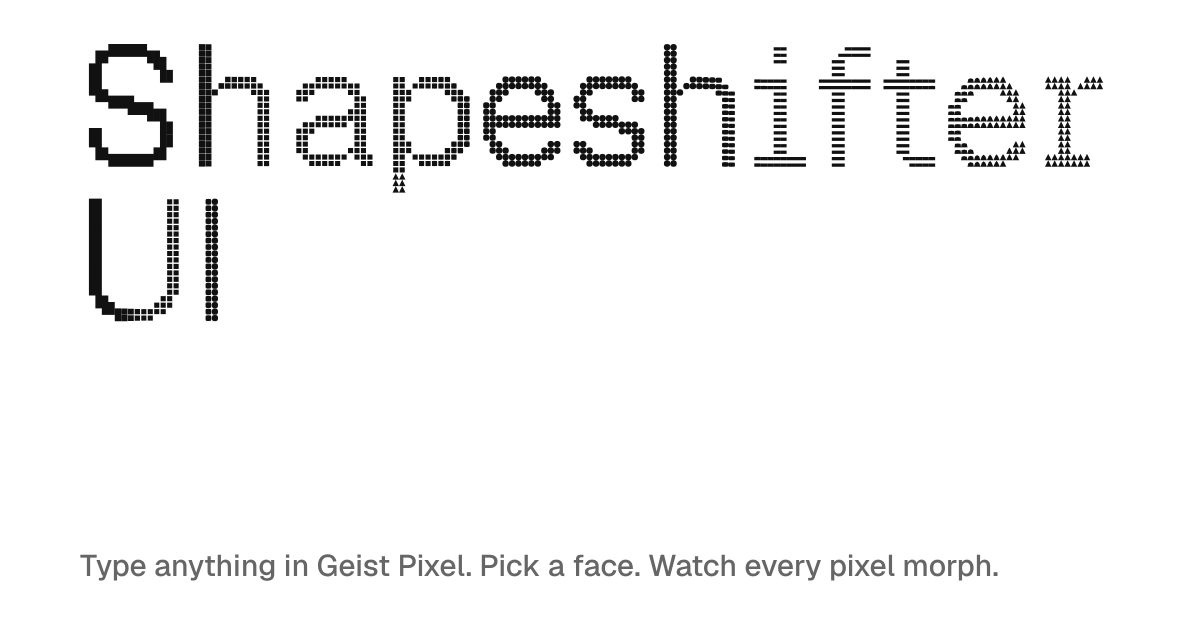
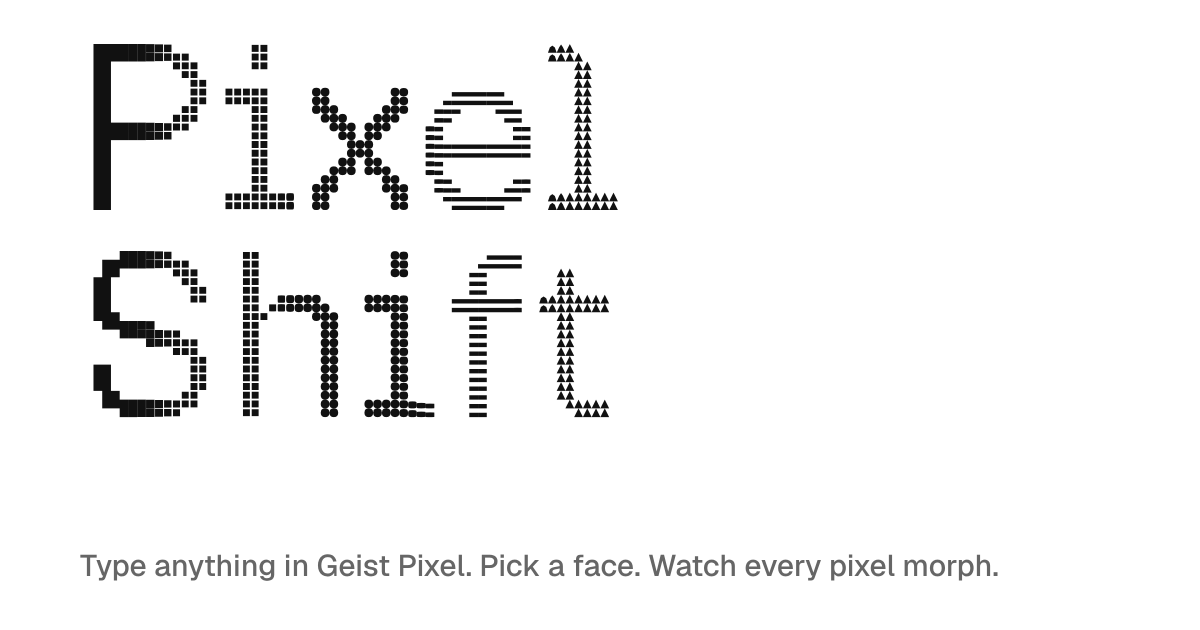
Rename the site to Pixel Shift
Short, and it says what happens: every pixel shifts its shape as the
face changes. The page title, the link preview tags and image, the
README and the package carry the new name; the component keeps
PixelMorph.

Claude-Session: https://claude.ai/code/session_012YUiGBASQ3XFqbQF6AJtMG

Changed region(s): [[0.0617, 0.0603, 0.925, 0.6635]]

diff --git a/index.html b/index.html
@@ -5,18 +5,18 @@
     <link rel="icon" type="image/svg+xml" href="/favicon.svg" />
     <meta name="description" content="Type anything in Geist Pixel and watch every pixel morph between Square, Grid, Circle, Line and Triangle." />
     <meta name="viewport" content="width=device-width, initial-scale=1.0" />
-    <title>Shapeshifter UI</title>
+    <title>Pixel Shift</title>
     <meta name="theme-color" content="#ffffff" />
     <meta property="og:type" content="website" />
     <meta property="og:url" content="https://geist-pixel-animation.vercel.app/" />
-    <meta property="og:title" content="Shapeshifter UI" />
+    <meta property="og:title" content="Pixel Shift" />
     <meta property="og:description" content="Type anything in Geist Pixel and watch every pixel morph between Square, Grid, Circle, Line and Triangle." />
     <meta property="og:image" content="https://geist-pixel-animation.vercel.app/og.png" />
     <meta property="og:image:width" content="1200" />
     <meta property="og:image:height" content="630" />
-    <meta property="og:image:alt" content="The words Shapeshifter UI in Geist Pixel, their pixels turning from squares to dots, bars and triangles from left to right." />
+    <meta property="og:image:alt" content="The words Pixel Shift in Geist Pixel, their pixels turning from squares to dots, bars and triangles from left to right." />
     <meta name="twitter:card" content="summary_large_image" />
-    <meta name="twitter:title" content="Shapeshifter UI" />
+    <meta name="twitter:title" content="Pixel Shift" />
     <meta name="twitter:description" content="Type anything in Geist Pixel and watch every pixel morph between Square, Grid, Circle, Line and Triangle." />
     <meta name="twitter:image" content="https://geist-pixel-animation.vercel.app/og.png" />
     <link rel="preconnect" href="https://fonts.googleapis.com" />

diff --git a/README.md b/README.md
@@ -1,4 +1,4 @@
-# Shapeshifter UI
+# Pixel Shift
 
 Type anything in Geist Pixel, then switch faces and watch every pixel morph
 into the new one: solid Square letters break down into Circle dots, dots
